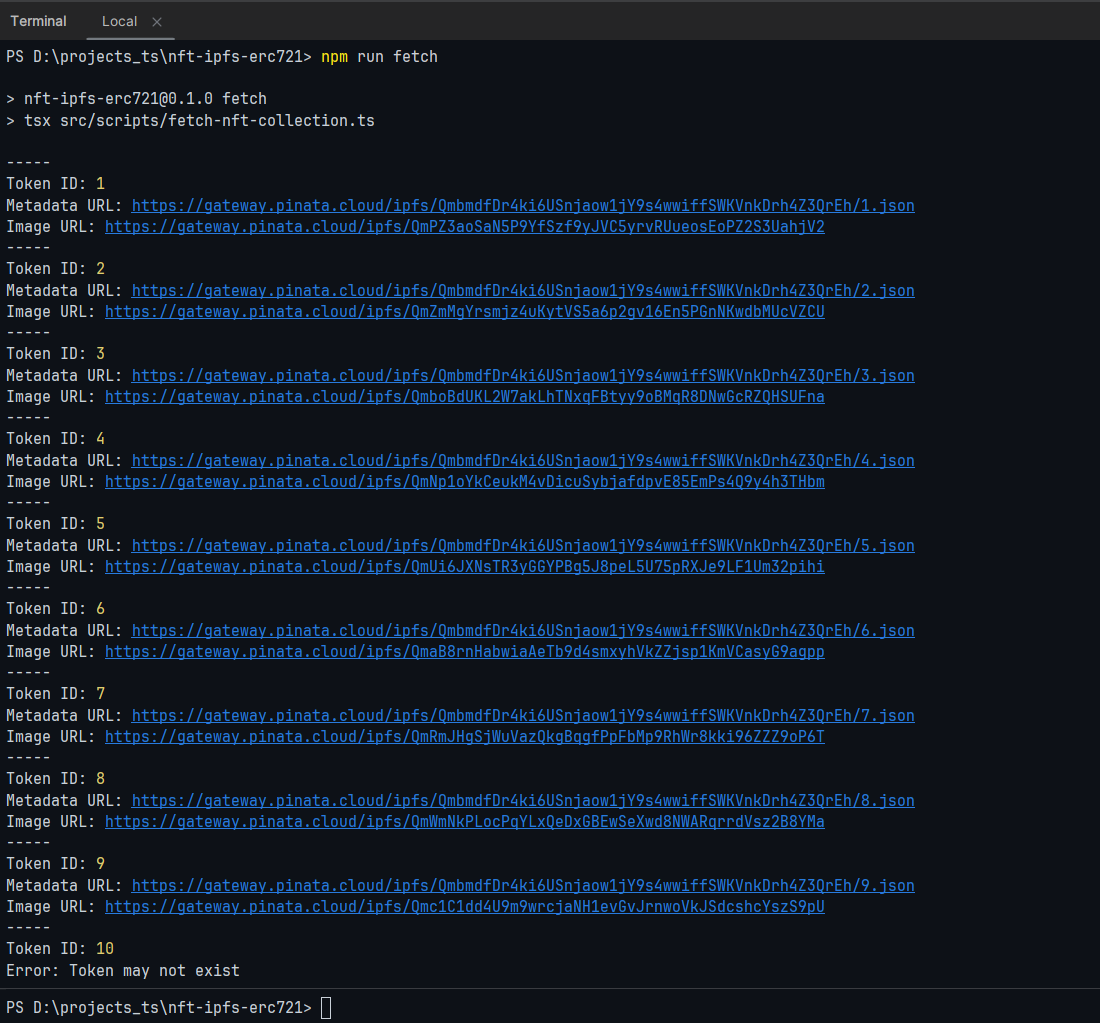
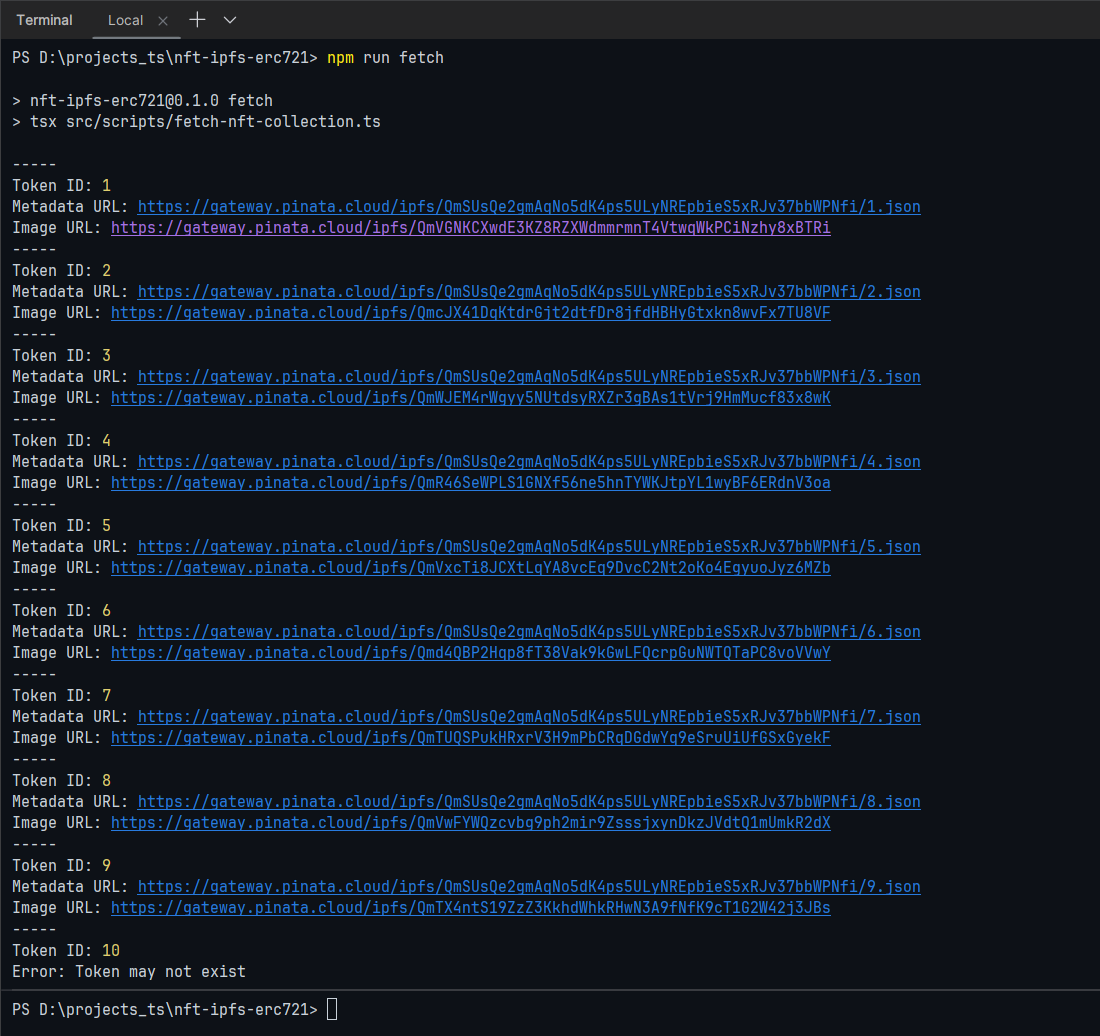
Update Screenshots

Changed region(s): [[0.0, 0.1515, 0.8345, 1.0], [0.0, 0.0, 0.4018, 0.0606], [0.0, 0.0909, 0.34, 0.1212]]

diff --git a/src/scripts/mint-nft-collection.ts b/src/scripts/mint-nft-collection.ts
@@ -10,7 +10,7 @@ const PRIVATE_KEY = process.env.PRIVATE_KEY as `0x${string}`;
 if (!RPC_URL) throw new Error("RPC_URL not set");
 if (!PRIVATE_KEY) throw new Error("PRIVATE_KEY not set");
 const account = privateKeyToAccount(PRIVATE_KEY);
-const CONTRACT_ADDRESS = "0x772eD9EaCf5EA8c7b94f5089E4D94551778625D1";
+const CONTRACT_ADDRESS = "0xab01589e6fb7504635ABCD70a240EcD5F8f16Ec4";
 const MINT_TO = account.address;
 const AMOUNT = 10;
 

diff --git a/src/scripts/fetch-nft-collection.ts b/src/scripts/fetch-nft-collection.ts
@@ -10,7 +10,7 @@ if (!RPC_URL) {
   throw new Error("RPC_URL not set");
 }
 
-const CONTRACT_ADDRESS = "0x772eD9EaCf5EA8c7b94f5089E4D94551778625D1";
+const CONTRACT_ADDRESS = "0xab01589e6fb7504635ABCD70a240EcD5F8f16Ec4";
 const GATEWAY = "https://gateway.pinata.cloud/ipfs/";
 
 function ipfsToHttp(ipfsUri: string): string {
